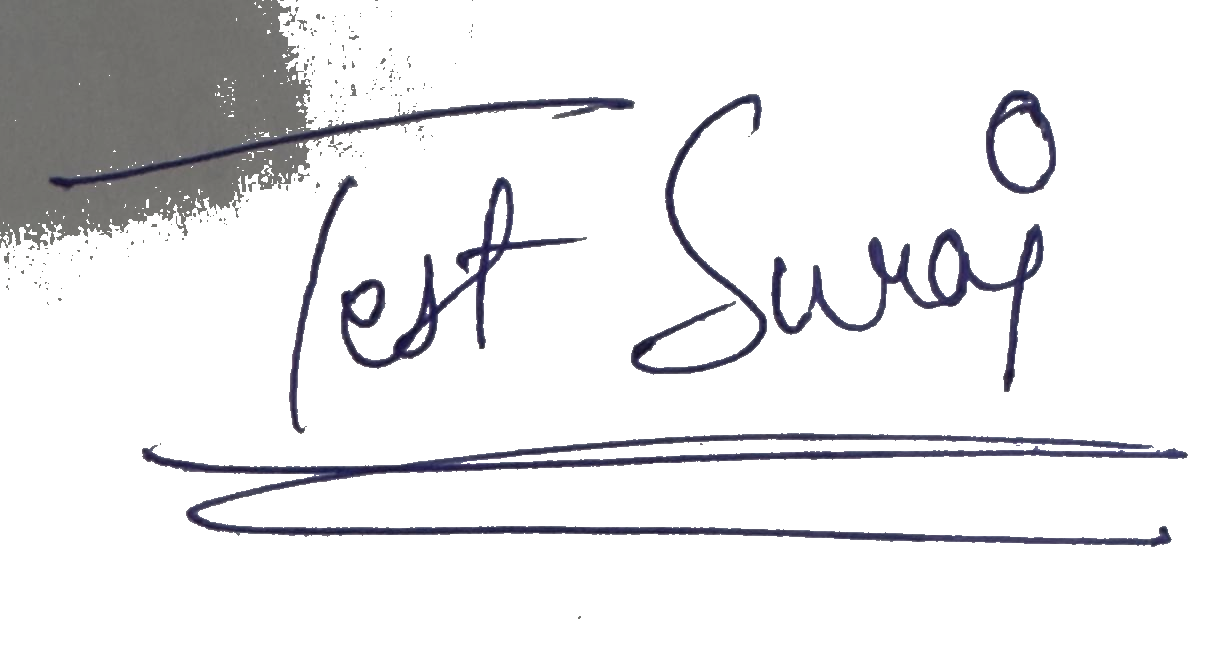
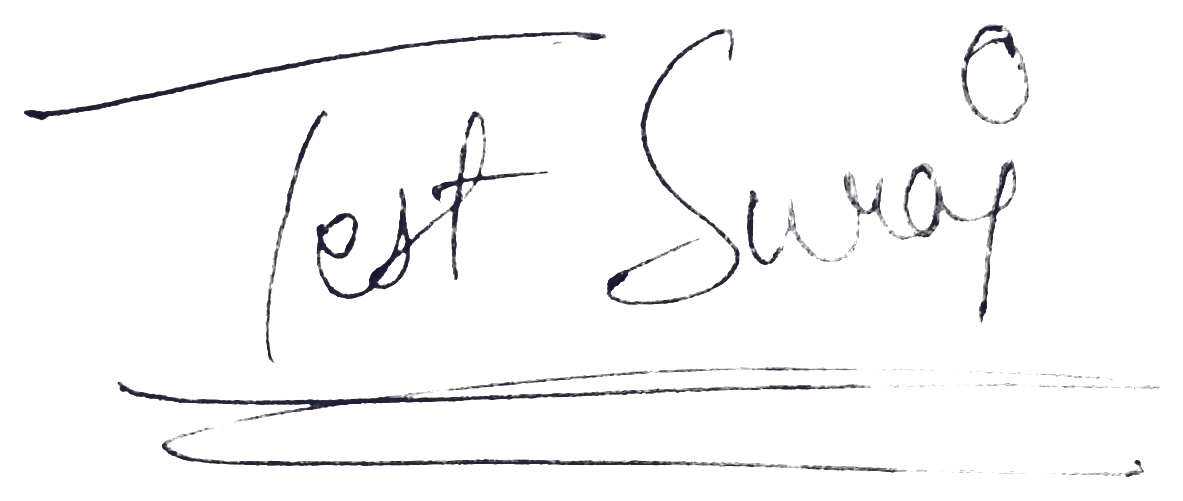
feat: signature Updating with alpha=0 and corrected

diff --git a/frontend/src/admin/views/Certificates.jsx b/frontend/src/admin/views/Certificates.jsx
@@ -329,37 +329,21 @@ const Certificates = () => {
             const imgData = ctx.getImageData(0, 0, width, height);
             const data = imgData.data;
 
-            // Sample borders to detect paper background luminance
-            let bgSum = 0;
-            let count = 0;
-            let bgMax = 0;
-            const step = Math.max(1, Math.floor(Math.min(width, height) / 25));
-
-            for (let x = 0; x < width; x += step) {
-              let i = (0 * width + x) * 4;
-              let lum = 0.299 * data[i] + 0.587 * data[i + 1] + 0.114 * data[i + 2];
-              bgSum += lum; count++; if (lum > bgMax) bgMax = lum;
-
-              i = ((height - 1) * width + x) * 4;
-              lum = 0.299 * data[i] + 0.587 * data[i + 1] + 0.114 * data[i + 2];
-              bgSum += lum; count++; if (lum > bgMax) bgMax = lum;
+            // 1. Find darkest ink luminance in the image
+            let minLum = 255;
+            for (let i = 0; i < data.length; i += 4) {
+              if (data[i + 3] > 10) {
+                const lum = 0.299 * data[i] + 0.587 * data[i + 1] + 0.114 * data[i + 2];
+                if (lum < minLum) minLum = lum;
+              }
             }
 
-            for (let y = 0; y < height; y += step) {
-              let i = (y * width + 0) * 4;
-              let lum = 0.299 * data[i] + 0.587 * data[i + 1] + 0.114 * data[i + 2];
-              bgSum += lum; count++; if (lum > bgMax) bgMax = lum;
-
-              i = (y * width + (width - 1)) * 4;
-              lum = 0.299 * data[i] + 0.587 * data[i + 1] + 0.114 * data[i + 2];
-              bgSum += lum; count++; if (lum > bgMax) bgMax = lum;
-            }
-
-            const bgAvg = count > 0 ? bgSum / count : 220;
-            const bgThreshold = Math.max(145, Math.min(bgMax - 12, bgAvg - 5));
-            const inkThreshold = Math.max(40, bgThreshold - 50);
+            // 2. Ink threshold strictly capped at 80 to eliminate paper shadows (>=90)
+            const inkCutoff = Math.max(35, Math.min(80, minLum + 45));
+            const edgeBand = 15;
 
             let minX = width, maxX = 0, minY = height, maxY = 0;
+            let inkCount = 0;
 
             for (let i = 0; i < data.length; i += 4) {
               const r = data[i];
@@ -370,32 +354,29 @@ const Certificates = () => {
               const px = pixelIdx % width;
               const py = Math.floor(pixelIdx / width);
 
-              if (lum >= bgThreshold) {
-                // Transparent paper
+              if (lum >= inkCutoff) {
+                // Completely transparent paper and shadow
                 data[i + 3] = 0;
-              } else if (lum <= inkThreshold) {
-                // Pure ink stroke: preserve pen color tone (blue/black), darken slightly for crisp contrast
-                data[i] = Math.max(0, Math.round(r * 0.75));
-                data[i + 1] = Math.max(0, Math.round(g * 0.75));
-                data[i + 2] = Math.max(0, Math.round(b * 0.75));
-                data[i + 3] = 255;
-                if (px < minX) minX = px;
-                if (px > maxX) maxX = px;
-                if (py < minY) minY = py;
-                if (py > maxY) maxY = py;
               } else {
                 // Smooth anti-aliased edge
-                const alphaRatio = (bgThreshold - lum) / (bgThreshold - inkThreshold);
-                const alpha = Math.round(255 * Math.max(0, Math.min(1, alphaRatio)));
-                data[i] = Math.max(0, Math.round(r * 0.8));
-                data[i + 1] = Math.max(0, Math.round(g * 0.8));
-                data[i + 2] = Math.max(0, Math.round(b * 0.8));
+                let alpha = 255;
+                if (lum > inkCutoff - edgeBand) {
+                  const factor = (inkCutoff - lum) / edgeBand;
+                  alpha = Math.round(255 * Math.max(0, Math.min(1, factor)));
+                }
                 data[i + 3] = alpha;
+
+                // Crisp authentic pen ink color (deep blue-black)
+                data[i] = Math.min(r, 40);
+                data[i + 1] = Math.min(g, 40);
+                data[i + 2] = Math.min(b, 55);
+
                 if (alpha > 40) {
                   if (px < minX) minX = px;
                   if (px > maxX) maxX = px;
                   if (py < minY) minY = py;
                   if (py > maxY) maxY = py;
+                  inkCount++;
                 }
               }
             }

diff --git a/backend/utils/signatureProcessor.js b/backend/utils/signatureProcessor.js
@@ -1,6 +1,7 @@
 const fs = require('fs');
 const path = require('path');
 const { execSync } = require('child_process');
+const { PNG } = require('pngjs');
 
 const signaturesDir = path.join(__dirname, '../uploads/signatures');
 const certsDir = path.join(__dirname, '../uploads/certificates');
@@ -22,14 +23,104 @@ function getLatestSignatureMtime() {
 }
 
 /**
+ * Cleans a PNG buffer directly in memory, removing paper & phone shadows,
+ * isolating textual pen ink strokes, and auto-cropping to content bounds.
+ */
+function cleanPngBuffer(inputBuf) {
+  try {
+    const png = PNG.sync.read(inputBuf);
+    const width = png.width;
+    const height = png.height;
+
+    // 1. Find the darkest luminance in the image (the core ink)
+    let minLum = 255;
+    for (let i = 0; i < png.data.length; i += 4) {
+      if (png.data[i + 3] > 10) {
+        const lum = 0.299 * png.data[i] + 0.587 * png.data[i + 1] + 0.114 * png.data[i + 2];
+        if (lum < minLum) minLum = lum;
+      }
+    }
+
+    // 2. Ink threshold: strictly capped at 80 to eliminate shadows (which are >= 90)
+    const inkCutoff = Math.max(35, Math.min(80, minLum + 45));
+    const edgeBand = 15;
+
+    let minX = width, maxX = 0, minY = height, maxY = 0;
+    let inkCount = 0;
+
+    for (let y = 0; y < height; y++) {
+      for (let x = 0; x < width; x++) {
+        const idx = (y * width + x) * 4;
+        const r = png.data[idx];
+        const g = png.data[idx + 1];
+        const b = png.data[idx + 2];
+        const lum = 0.299 * r + 0.587 * g + 0.114 * b;
+
+        if (lum >= inkCutoff) {
+          // Transparent paper and shadow
+          png.data[idx + 3] = 0;
+        } else {
+          // Anti-aliased transition on stroke edge
+          let alpha = 255;
+          if (lum > inkCutoff - edgeBand) {
+            const factor = (inkCutoff - lum) / edgeBand;
+            alpha = Math.round(255 * Math.max(0, Math.min(1, factor)));
+          }
+          png.data[idx + 3] = alpha;
+
+          // Crisp authentic pen ink color (deep blue-black)
+          png.data[idx] = Math.min(r, 40);
+          png.data[idx + 1] = Math.min(g, 40);
+          png.data[idx + 2] = Math.min(b, 55);
+
+          if (alpha > 40) {
+            if (x < minX) minX = x;
+            if (x > maxX) maxX = x;
+            if (y < minY) minY = y;
+            if (y > maxY) maxY = y;
+            inkCount++;
+          }
+        }
+      }
+    }
+
+    // Auto-crop to content with 24px padding
+    if (inkCount > 40 && maxX > minX && maxY > minY) {
+      const pad = 24;
+      const cropX = Math.max(0, minX - pad);
+      const cropY = Math.max(0, minY - pad);
+      const cropW = Math.min(width - cropX, (maxX - minX) + (pad * 2));
+      const cropH = Math.min(height - cropY, (maxY - minY) + (pad * 2));
+
+      const outPng = new PNG({ width: cropW, height: cropH });
+      PNG.bitblt(png, outPng, cropX, cropY, cropW, cropH, 0, 0);
+      return PNG.sync.write(outPng);
+    }
+
+    return PNG.sync.write(png);
+  } catch (err) {
+    console.error('PNG buffer clean failed, returning original:', err.message);
+    return inputBuf;
+  }
+}
+
+/**
  * Strips paper background, extracts textual ink strokes, and saves as transparent PNG.
- * Uses PowerShell System.Drawing on Windows or falls back gracefully.
  *
  * @param {string} inputPath
  * @param {string} outputPath
  */
 function cleanSignatureImage(inputPath, outputPath) {
   try {
+    const rawBuf = fs.readFileSync(inputPath);
+    // If it's already a PNG, process directly in pure JS
+    if (rawBuf[0] === 0x89 && rawBuf[1] === 0x50 && rawBuf[2] === 0x4e && rawBuf[3] === 0x47) {
+      const cleaned = cleanPngBuffer(rawBuf);
+      fs.writeFileSync(outputPath, cleaned);
+      return true;
+    }
+
+    // Otherwise, use PowerShell for format conversion & cleaning on Windows
     const psScript = path.join(__dirname, 'cleanSignature.ps1');
     if (fs.existsSync(psScript) && process.platform === 'win32') {
       execSync(`powershell -ExecutionPolicy Bypass -File "${psScript}" -InputPath "${inputPath}" -OutputPath "${outputPath}"`, {
@@ -76,6 +167,7 @@ function invalidateStaleSignedCertificates() {
 
 module.exports = {
   getLatestSignatureMtime,
+  cleanPngBuffer,
   cleanSignatureImage,
   invalidateStaleSignedCertificates,
 };
